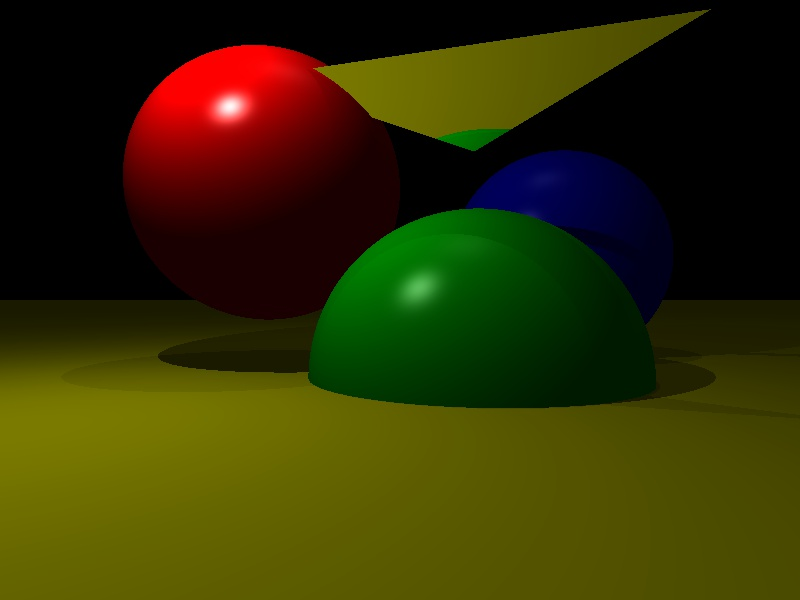
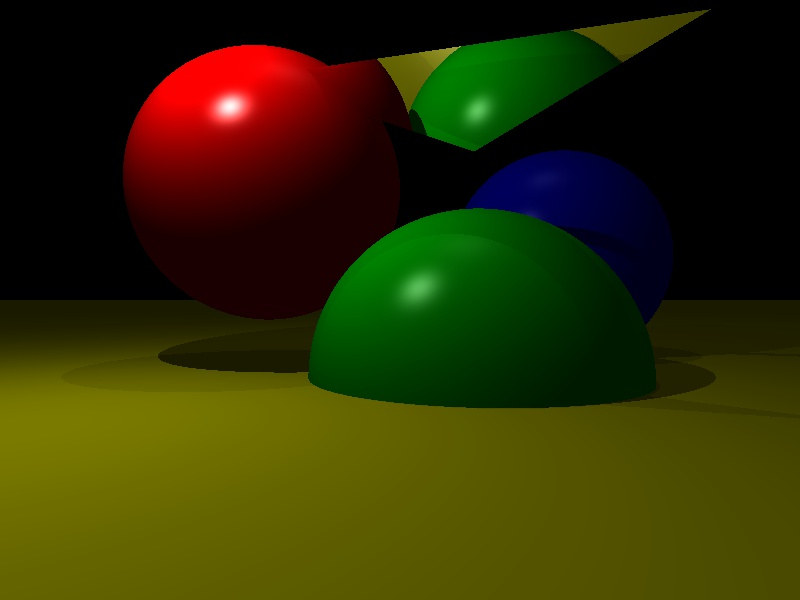
finalized implementation

Changed region(s): [[0.375, 0.03, 0.7812, 0.24]]

diff --git a/src/main.cpp b/src/main.cpp
@@ -13,79 +13,115 @@
 
 #include "LightOmni.h"
 
-Mat RenderFrame(void)
+enum ShaderType {
+    Flat,
+    Eyelight,
+    Phong,
+    Mirror
+};
+
+template<typename T, typename T2>
+Mat computeMat(CScene &scene, T &shd1, T &shd2, T &shd3, T &shd4, T2 &shd5){
+    // Add camera to scene
+    scene.add(std::make_shared<CCameraPerspective>(Size(800, 600), Vec3f(0,0,8), Vec3f(0,0,-1), Vec3f(0,1,0), 60));
+
+    // Add primitives to scene
+    scene.add(std::make_shared<CPrimSphere>(shd1, Vec3f(-2, 1.7f, 0), 2));
+    scene.add(std::make_shared<CPrimSphere>(shd2, Vec3f(1, -1, 1), 2.2f));
+    scene.add(std::make_shared<CPrimSphere>(shd3, Vec3f(3, 0.8f, -2), 2));
+    scene.add(std::make_shared<CPrimPlane>(shd4, Vec3f(0, -1, 0), Vec3f(0, 1, 0)));
+    scene.add(std::make_shared<CPrimTriangle>(shd5, Vec3f(-2, 3, 1),Vec3f(1, 2, 1),Vec3f(3, 2.8f, 3)));
+
+    Vec3f pointLightIntensity(25, 25, 25);
+    Vec3f lightPosition1(0, 17.5f, 0);
+    Vec3f lightPosition2(-3, 5, +4);
+
+    // Add light sources to scene
+    scene.add(std::make_shared<CLightOmni>(pointLightIntensity, lightPosition1));
+    scene.add(std::make_shared<CLightOmni>(pointLightIntensity, lightPosition2));
+
+
+    auto pCamera = scene.getActiveCamera();
+    if (!pCamera) {
+        printf("Error: Can't find active camera. Exiting.\n");
+        exit(0);
+    }
+    Mat img(scene.getActiveCamera()->getResolution(), CV_32FC3);		// image array
+    Ray ray;                                          			// primary ray
+
+    for (int y = 0; y < img.rows; y++)
+        for (int x = 0; x < img.cols; x++) {
+            scene.getActiveCamera()->InitRay(ray, x, y); // initialize ray
+            img.at<Vec3f>(y, x) = scene.RayTrace(ray);
+        }
+
+    img.convertTo(img, CV_8UC3, 255);
+    return img;
+}
+
+Mat RenderFrame(ShaderType shader)
 {
 	// Define a scene
 	CScene scene;
-	
 	// Flat surface shaders
-//	auto shd1 = std::make_shared<CShaderFlat>(RGB(1, 0, 0)); // red surface
-//	auto shd2 = std::make_shared<CShaderFlat>(RGB(0, 1, 0)); // green surface
-//	auto shd3 = std::make_shared<CShaderFlat>(RGB(0, 0, 1)); // blue surface
-//	auto shd4 = std::make_shared<CShaderFlat>(RGB(1, 1, 0)); // yellow surface
-//	auto shd5 = std::make_shared<CShaderFlat>(RGB(0, 1, 1)); // cyan surface
-//	auto shd6 = std::make_shared<CShaderFlat>(RGB(1, 1, 1)); // white surface
-
-	// EyeLight surface shaders
-//    auto shd1 = std::make_shared<CShaderEyelight>(RGB(1, 0, 0)); // red surface
-//    auto shd2 = std::make_shared<CShaderEyelight>(RGB(0, 1, 0)); // green surface
-//    auto shd3 = std::make_shared<CShaderEyelight>(RGB(0, 0, 1)); // blue surface
-//	auto shd4 = std::make_shared<CShaderEyelight>(RGB(1, 1, 0)); // yellow surface
-//	auto shd5 = std::make_shared<CShaderEyelight>(RGB(0, 1, 1)); // cyan surface
-//	auto shd6 = std::make_shared<CShaderEyelight>(RGB(1, 1, 1)); // white surface
-
-	// Phong surface shaders
-	auto shd1 = std::make_shared<CShaderPhong>(scene, RGB(1, 0, 0), 0.1f, 0.5f, 0.5f, 40); // red surface
-	auto shd2 = std::make_shared<CShaderPhong>(scene, RGB(0, 1, 0), 0.1f, 0.5f, 0.5f, 40); // green surface
-	auto shd3 = std::make_shared<CShaderPhong>(scene, RGB(0, 0, 1), 0.1f, 0.5f, 0.5f, 40); // blue surface
-	auto shd4 = std::make_shared<CShaderPhong>(scene, RGB(1, 1, 0), 0.1f, 0.5f, 0.5f, 40); // yellow surface
-	auto shd5 = std::make_shared<CShaderPhong>(scene, RGB(0, 1, 1), 0.1f, 0.5f, 0.5f, 40); // cyan surface
-	auto shd6 = std::make_shared<CShaderPhong>(scene, RGB(1, 1, 1), 0.1f, 0.5f, 0.5f, 40); // white surface
-
-	// Mirror shader
-	auto shdM = std::make_shared<CShaderMirror>(scene);
-	
-	// Add camera to scene
-	scene.add(std::make_shared<CCameraPerspective>(Size(800, 600), Vec3f(0,0,8), Vec3f(0,0,-1), Vec3f(0,1,0), 60));
-	
-	// Add primitives to scene
-	scene.add(std::make_shared<CPrimSphere>(shd1, Vec3f(-2, 1.7f, 0), 2));
-	scene.add(std::make_shared<CPrimSphere>(shd2, Vec3f(1, -1, 1), 2.2f));
-	scene.add(std::make_shared<CPrimSphere>(shd3, Vec3f(3, 0.8f, -2), 2));
-	scene.add(std::make_shared<CPrimPlane>(shd4, Vec3f(0, -1, 0), Vec3f(0, 1, 0)));
-	scene.add(std::make_shared<CPrimTriangle>(shd5, Vec3f(-2, 3, 1),Vec3f(1, 2, 1),Vec3f(3, 2.8f, 3)));
-
-	Vec3f pointLightIntensity(25, 25, 25);
-	Vec3f lightPosition1(0, 17.5f, 0);
-	Vec3f lightPosition2(-3, 5, +4);
-
-	// Add light sources to scene
-	scene.add(std::make_shared<CLightOmni>(pointLightIntensity, lightPosition1));
-	scene.add(std::make_shared<CLightOmni>(pointLightIntensity, lightPosition2));
-
-
-	auto pCamera = scene.getActiveCamera();
-	if (!pCamera) {
-		printf("Error: Can't find active camera. Exiting.\n");
-		exit(0);
+	if (shader == Flat) {
+        auto shd1 = std::make_shared<CShaderFlat>(RGB(1, 0, 0)); // red surface
+        auto shd2 = std::make_shared<CShaderFlat>(RGB(0, 1, 0)); // green surface
+        auto shd3 = std::make_shared<CShaderFlat>(RGB(0, 0, 1)); // blue surface
+        auto shd4 = std::make_shared<CShaderFlat>(RGB(1, 1, 0)); // yellow surface
+        auto shd5 = std::make_shared<CShaderFlat>(RGB(0, 1, 1)); // cyan surface
+        auto shd6 = std::make_shared<CShaderFlat>(RGB(1, 1, 1)); // white surface
+        return computeMat(scene, shd1, shd2, shd3, shd4, shd5);
+    }
+	else if (shader == Eyelight)
+	{
+        auto shd1 = std::make_shared<CShaderEyelight>(RGB(1, 0, 0)); // red surface
+        auto shd2 = std::make_shared<CShaderEyelight>(RGB(0, 1, 0)); // green surface
+        auto shd3 = std::make_shared<CShaderEyelight>(RGB(0, 0, 1)); // blue surface
+        auto shd4 = std::make_shared<CShaderEyelight>(RGB(1, 1, 0)); // yellow surface
+        auto shd5 = std::make_shared<CShaderEyelight>(RGB(0, 1, 1)); // cyan surface
+        auto shd6 = std::make_shared<CShaderEyelight>(RGB(1, 1, 1)); // white surface
+        return computeMat(scene, shd1, shd2, shd3, shd4, shd5);
+    }
+	else
+	{
+        auto shd1 = std::make_shared<CShaderPhong>(scene, RGB(1, 0, 0), 0.1f, 0.5f, 0.5f, 40); // red surface
+        auto shd2 = std::make_shared<CShaderPhong>(scene, RGB(0, 1, 0), 0.1f, 0.5f, 0.5f, 40); // green surface
+        auto shd3 = std::make_shared<CShaderPhong>(scene, RGB(0, 0, 1), 0.1f, 0.5f, 0.5f, 40); // blue surface
+        auto shd4 = std::make_shared<CShaderPhong>(scene, RGB(1, 1, 0), 0.1f, 0.5f, 0.5f, 40); // yellow surface
+        auto shd5 = std::make_shared<CShaderPhong>(scene, RGB(0, 1, 1), 0.1f, 0.5f, 0.5f, 40); // cyan surface
+        auto shdM = std::make_shared<CShaderMirror>(scene);
+        auto shd6 = std::make_shared<CShaderPhong>(scene, RGB(1, 1, 1), 0.1f, 0.5f, 0.5f, 40); // white surface
+        return shader == Phong ? computeMat(scene, shd1, shd2, shd3, shd4, shd5) : computeMat(scene, shd1, shd2, shd3, shd4, shdM);
 	}
-	Mat img(scene.getActiveCamera()->getResolution(), CV_32FC3);		// image array
-	Ray ray;                                          			// primary ray
-
-	for (int y = 0; y < img.rows; y++)
-		for (int x = 0; x < img.cols; x++) {
-			scene.getActiveCamera()->InitRay(ray, x, y); // initialize ray
-			img.at<Vec3f>(y, x) = scene.RayTrace(ray); 
-		}
-	
-	img.convertTo(img, CV_8UC3, 255);
-	return img;
 }
 
 int main(int argc, char* argv[])
 {
-	Mat img = RenderFrame();
-    imwrite("../render/shaderPhong.jpg", img);
+    ShaderType type = Mirror;
+    std::string path;
+    if (type == Flat)
+    {
+        path = "../render/flat.jpg";
+    }
+    else if (type == Eyelight)
+    {
+        path = "../render/eyelight.jpg";
+    }
+    else if (type == Phong)
+    {
+        path = "../render/phong.jpg";
+    }
+    else if (type == Mirror)
+    {
+        path = "../render/mirror.jpg";
+    }
+    else {
+        printf("Error: Unsupported shading type. Exiting.\n");
+        exit(0);
+    }
+	Mat img = RenderFrame(type);
+    imwrite(path, img);
 	imshow("Image", img);
 	waitKey();
 	return 0;

diff --git a/src/ShaderPhong.h b/src/ShaderPhong.h
@@ -33,7 +33,7 @@ public:
 	    if (ray.dir.dot(normal) > 0)
 	        normal *= -1;
         // r = d−2(d⋅n)n
-        Vec3f reflected = ray.dir - 2*(ray.dir.dot(normal))*normal;
+        Vec3f reflected = normalize(ray.dir - 2*(ray.dir.dot(normal))*normal);
         Vec3f color = CShaderFlat::shade(ray);
         Vec3f ambient = m_ka * color;
         auto ambientIntensity = RGB(1, 1, 1);
@@ -42,8 +42,8 @@ public:
         Ray temp;
         temp.org = ray.org + ray.t * ray.dir;
 	    for (const auto& light : m_scene.getLights()){
-	        std::optional<Vec3f> lightInt = light->illuminate(temp);
-	        if (!lightInt.has_value())
+	        auto intensity = light->illuminate(temp);
+	        if (!intensity.has_value())
 	            continue;
 	        double cosLN = temp.dir.dot(normal);
             double cosLR = temp.dir.dot(reflected);
@@ -57,12 +57,12 @@ public:
 	            if (m_scene.occluded(temp))
 	                continue;
 	            Vec3f diffuse = m_kd * color;
-	            final += (diffuse * cosLN).mul(lightInt.value());
+	            final += (diffuse * cosLN).mul(intensity.value());
 	        }
 	        // make sure we're in the front side.
 	        if (cosLR > 0){
 	            Vec3f specular = m_ks * RGB(1, 1, 1);
-	            final += (specular * pow(cosLR, m_ke)).mul(lightInt.value());
+	            final += (specular * pow(cosLR, m_ke)).mul(intensity.value());
 	        }
 	    }
 	    for (auto &x : final.val)

diff --git a/src/PrimTriangle.h b/src/PrimTriangle.h
@@ -66,10 +66,10 @@ public:
         /* Here I'll be using logic found here:
          * https://www.khronos.org/opengl/wiki/Calculating_a_Surface_Normal#:~:text=A%20surface%20normal%20for%20a,of%20the%20face%20w.r.t.%20winding).
          * */
-
-		return Vec3f(m_edge1.val[1]*m_edge2.val[2] - m_edge1.val[2]*m_edge2.val[1],
+		auto result = Vec3f(m_edge1.val[1]*m_edge2.val[2] - m_edge1.val[2]*m_edge2.val[1],
 		        m_edge1.val[2]*m_edge2.val[0] - m_edge1.val[0]*m_edge2.val[2],
 		        m_edge1.val[0]*m_edge2.val[1] - m_edge1.val[1]*m_edge2.val[0]);
+		return normalize(result);
 	}
 	
 private:

diff --git a/src/ShaderMirror.h b/src/ShaderMirror.h
@@ -17,11 +17,13 @@ public:
 	virtual Vec3f shade(const Ray& ray) const override
 	{
 	    Vec3f normal = ray.hit->getNormal(ray);
+        if (ray.dir.dot(normal) > 0)
+            normal *= -1;
         Vec3f reflected_dir = ray.dir - 2*(ray.dir.dot(normal))*normal;
 
         Ray reflected;
         reflected.dir = normalize(reflected_dir);
-        reflected.t = norm(reflected_dir);
+        reflected.t = std::numeric_limits<double>::infinity();
         reflected.org = ray.t * ray.dir + ray.org;
 		return m_scene.RayTrace(reflected);
 	}

diff --git a/src/Scene.h b/src/Scene.h
@@ -79,11 +79,11 @@ public:
 	 */
 	bool occluded(Ray& ray)
 	{
-	    bool isOccluded = false;
 	    // pretty much the exact same logic as intersect?
 	    for (const auto& prim : m_vpPrims)
-	        isOccluded |= prim->occluded(ray);
-		return isOccluded;
+	        if(prim->occluded(ray))
+	            return true;
+		return false;
 	}
 
 	/**

diff --git a/src/PrimSphere.h b/src/PrimSphere.h
@@ -62,7 +62,6 @@ public:
 		 * we simply need to find the vector that's orthogonal
 		 * to the tangent (vector with dir similar to vec from
 		 * center to intersection pt). */
-
         return normalize((ray.dir*ray.t + ray.org) - m_origin);
 	}
 	

diff --git a/README.md b/README.md
@@ -9,8 +9,10 @@ Please put your name here:
 * I made a small change to the main file so that it would output the images to my render directory differently and
 so that it is also outputs the image before displaying the window.
 
-* I had to change the .gitignore file as well to avoid commiting some garbage files from CLion. 
+* I had to change the `.gitignore` file as well to avoid committing some garbage files from CLion. 
 
+* I additionally changed the `main.cpp` file in order to automate the testing a little more. This might have resulted in more
+boiler plate code but automated the change of the shader by changing a single variable.
 
 ## Problem 1
 ### Encapsulate camera and primitives from main application logic (Points 5)
